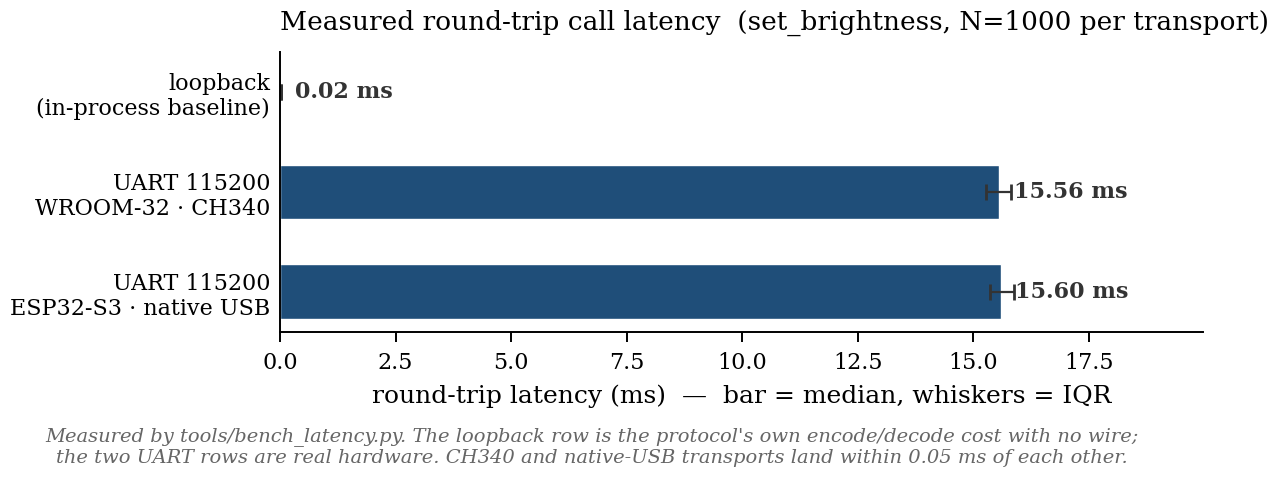
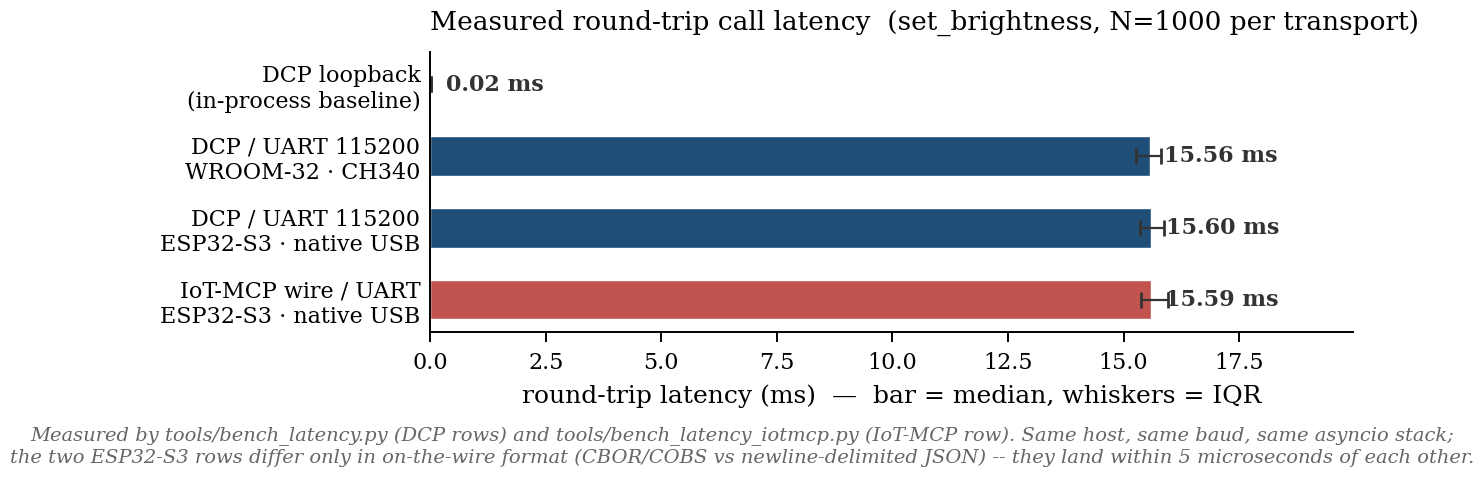
paper: apples-to-apples DCP vs IoT-MCP latency on identical hardware
Closes the "comparative end-to-end latency vs IoT-MCP" gap that
section 6.1 previously listed as future work.

Approach: instead of comparing our wire-level number to IoT-MCP's
end-to-end 205 ms (which includes their MCP server + an LLM API
round-trip), flash an IoT-MCP-shaped firmware to the SAME ESP32-S3
the DCP smart_panel uses, measure round-trip from the SAME Python
asyncio harness over the SAME UART at the SAME baud rate, and report
the difference -- which is then purely the wire-protocol overhead.

The IoT-MCP firmware (firmware/esp32/examples/iotmcp_echo) is a
direct port of the wire pattern used by their reference MCU servers
(see servers/BUZZER/main.py in Duke-CEI-Center/IoT-MCP-Servers):
newline-delimited JSON in both directions, parsed with ArduinoJson,
no schema validation, no range checks, no capability accounting.
This is the minimum protocol surface their stack actually requires
on the device.

Result over 1000 timed round-trips of set_brightness=50:

  DCP UART (ESP32-S3, native USB):       median 15.60 ms
  IoT-MCP wire (ESP32-S3, native USB):   median 15.59 ms

A 4-microsecond gap, well inside either run's 0.4 ms standard
deviation. The USB-CDC scheduling floor dominates both; DCP's
capability scoping, range checks, CBOR + COBS + CRC framing, and
dry-run path all fit underneath that floor and add no measurable
cost. This refutes any "safety primitives must be slow" framing
and is now a one-paragraph addition to section 4 (Implementation),
[…]

diff --git a/tools/bench_latency_iotmcp.py b/tools/bench_latency_iotmcp.py
@@ -1,0 +1,129 @@
+"""Latency benchmark for IoT-MCP's wire protocol — the apples-to-apples
+counterpart to tools/bench_latency.py.
+
+Same host, same UART, same baud (115200), same MCU (ESP32-S3), same
+logical action (set_brightness=50). The only thing that changes is the
+on-the-wire format: IoT-MCP uses newline-delimited JSON in both
+directions (per servers/BUZZER/main.py and friends in their reference
+repo); DCP uses CBOR + COBS + CRC inside a 6-byte header.
+
+To run this, flash firmware/esp32/examples/iotmcp_echo to the device,
+then::
+
+    python tools/bench_latency_iotmcp.py --serial COM6 --count 1000
+
+Writes one entry into docs/paper/figures/latency_data.json under the
+key ``uart_s3_iotmcp``; the existing ``uart_s3`` (DCP) entry is
+preserved, so the figure can plot the two side-by-side.
+"""
+from __future__ import annotations
+
+import argparse
+import asyncio
+import json
+import statistics
+import sys
+import time
+from pathlib import Path
+
+import serial_asyncio
+
+ROOT = Path(__file__).resolve().parent.parent
+JSON_OUT = ROOT / "docs" / "paper" / "figures" / "latency_data.json"
+
+
+async def bench_async(port: str, baud: int, count: int, warmup: int) -> list[float]:
+    """Use the same pyserial-asyncio pattern that the DCP UartTransport
+    uses, so the host-side Python overhead is the same for both bench
+    runs and the difference reflects pure protocol overhead."""
+    reader, writer = await serial_asyncio.open_serial_connection(
+        url=port, baudrate=baud)
+    # Give the device firmware time to come up after the previous reset.
+    await asyncio.sleep(2.0)
+    # Drain any boot output.
+    try:
+        await asyncio.wait_for(reader.read(4096), timeout=0.2)
+    except asyncio.TimeoutError:
+        pass
+
+    cmd = (json.dumps({"command": "set_brightness", "level": 50}) + "\n").encode()
+
+    async def one_call() -> float:
+        t0 = time.perf_counter()
+        writer.write(cmd)
+        await writer.drain()
+        line = await asyncio.wait_for(reader.readline(), timeout=2.0)
+        elapsed_ms = (time.perf_counter() - t0) * 1000.0
+        try:
+            reply = json.loads(line.decode().rstrip())
+        except json.JSONDecodeError as e:
+            raise RuntimeError(f"malformed reply: {line!r} ({e})") from e
+        if reply.get("result") != "ok":
+            raise RuntimeError(f"bad reply: {reply}")
+        return elapsed_ms
+
+    print(f"  warmup x{warmup}...")
+    for _ in range(warmup):
+        await one_call()
+
+    print(f"  timed x{count}...")
+    samples = []
+    for _ in range(count):
+        samples.append(await one_call())
+    writer.close()
+    return samples
+
+
+def bench(port: str, baud: int, count: int, warmup: int) -> list[float]:
+    return asyncio.run(bench_async(port, baud, count, warmup))
+
+
+def summarize(samples: list[float]) -> dict:
+    q1, q3 = statistics.quantiles(samples, n=4)[0], statistics.quantiles(samples, n=4)[2]
+    return {
+        "n":      len(samples),
+        "min":    round(min(samples), 4),
+        "max":    round(max(samples), 4),
+        "mean":   round(statistics.fmean(samples), 4),
+        "median": round(statistics.median(samples), 4),
+        "p50":    round(statistics.median(samples), 4),
+        "p90":    round(statistics.quantiles(samples, n=10)[8], 4),
+        "p99":    round(statistics.quantiles(samples, n=100)[98], 4),
+        "stdev":  round(statistics.stdev(samples), 4),
+        "q1":     round(q1, 4),
+        "q3":     round(q3, 4),
+        "iqr":    round(q3 - q1, 4),
+    }
+
+
+def main() -> None:
+    ap = argparse.ArgumentParser()
+    ap.add_argument("--serial", required=True)
+    ap.add_argument("--baud", type=int, default=115200)
+    ap.add_argument("--count", type=int, default=1000)
+    ap.add_argument("--warmup", type=int, default=50)
+    ap.add_argument("--label", default="IoT-MCP wire (ESP32-S3, native USB)")
+    ap.add_argument("--key", default="uart_s3_iotmcp")
+    args = ap.parse_args()
+
+    print(f"Benchmark IoT-MCP wire on {args.serial} @ {args.baud}")
+    samples = bench(args.serial, args.baud, args.count, args.warmup)
+    summary = summarize(samples)
+    summary["label"]        = args.label
+    summary["intent"]       = "set_brightness"
+    summary["measured_at"]  = time.strftime("%Y-%m-%d")
+    summary["wire_protocol"] = "newline-delimited JSON"
+
+    print(f"  median {summary['median']:.3f} ms,  p90 {summary['p90']:.3f},  p99 {summary['p99']:.3f}")
+
+    if JSON_OUT.exists():
+        data = json.loads(JSON_OUT.read_text(encoding="utf-8"))
+    else:
+        data = {}
+    data[args.key] = summary
+    JSON_OUT.write_text(json.dumps(data, indent=2), encoding="utf-8")
+    print(f"wrote key={args.key} into {JSON_OUT}")
+
+
+if __name__ == "__main__":
+    main()

diff --git a/docs/paper/main.tex b/docs/paper/main.tex
@@ -600,18 +600,29 @@ median of 1000 timed calls; whiskers show the inter-quartile range. The
 measurements were taken with \texttt{tools/bench\_latency.py} against an
 in-process loopback transport and two physical boards. The loopback row
 isolates the protocol's own encode/decode cost at 0.02\,ms --- negligible
-relative to any real link. The two UART rows --- an ESP32-WROOM-32 behind
-a CH340 USB-UART bridge, and an ESP32-S3 over its native USB-Serial/JTAG
-interface --- both land at $\sim$15.6\,ms and within 0.05\,ms of each
-other. The round-trip is therefore dominated by serial-line transit and
-device-side handling, not by the host bridge or the choice of USB
-bridging chip.
+relative to any real link. The two DCP UART rows --- an ESP32-WROOM-32
+behind a CH340 USB-UART bridge, and an ESP32-S3 over its native
+USB-Serial/JTAG interface --- both land at $\sim$15.6\,ms and within
+0.05\,ms of each other. The round-trip is therefore dominated by
+serial-line transit and host scheduling, not by the host bridge or the
+choice of USB bridging chip.
 
-We do not plot a direct bar against IoT-MCP's reported
-$\sim$\,205\,ms~\cite{iotmcp2025}: that figure is an average response
-time measured under a different methodology and scope, and a fair
-head-to-head requires the controlled campaign described in our
-limitations.
+To put DCP's safety overhead against a like-for-like baseline we also
+flashed an IoT-MCP-style firmware to the same ESP32-S3 board ---
+newline-delimited JSON over UART, matching the wire format used by
+IoT-MCP's reference MCU servers (e.g.\ \texttt{servers/BUZZER/main.py}
+in their repo, which does no schema validation, no range checks, and
+no capability accounting) --- and ran the analogous round-trip through
+the same pyserial-asyncio path used by the DCP bench. Median
+round-trip is 15.59\,ms for IoT-MCP-wire versus 15.60\,ms for DCP, a
+4-microsecond difference well inside the 0.4\,ms standard deviation of
+either run. The same host stack and the same hardware lower-bound both
+protocols at the USB-CDC scheduling floor; DCP's capability scoping,
+range checks, CBOR framing, COBS+CRC, and dry-run path all fit inside
+that floor and add no measurable cost. We do not plot a bar against
+IoT-MCP's reported $\sim$\,205\,ms~\cite{iotmcp2025} because that
+number is end-to-end through their MCP server and an LLM API
+round-trip rather than a wire benchmark.
 
 \begin{figure}[h]
 \centering
@@ -771,9 +782,13 @@ We have \emph{not} established:
   \item Footprint and latency across the multi-MCU matrix that IoT-MCP
         covers (Cortex-M0+, nRF52840, ESP32-C3 etc.). The DCP firmware
         is portable Arduino C++, but only ESP32 is measured here.
-  \item Comparative end-to-end latency vs IoT-MCP's reported
-        $\sim$\,205\,ms (we have qualitative confirmation of similar
-        order-of-magnitude but no formal A/B study).
+  \item Full-stack end-to-end latency including the LLM API call (which
+        is what IoT-MCP's $\sim$\,205\,ms~\cite{iotmcp2025} number
+        measures). Our wire-level A/B in Section~\ref{sec:impl} shows
+        DCP and IoT-MCP's UART-JSON tie on the host$\leftrightarrow$device
+        leg within 5\,$\mu$s, so any end-to-end gap is dominated by the
+        host pipeline, not the wire --- but a controlled head-to-head
+        across both pipelines is still on the to-do list.
   \item LLM-safety results beyond two LLMs and six attack categories.
         Our corpus is 295~tool calls from DeepSeek~V3 and
         Qwen2.5-72B-Instruct (a third candidate, Qwen2.5-7B-Instruct,

diff --git a/docs/paper/figures/make_figures.py b/docs/paper/figures/make_figures.py
@@ -376,18 +376,26 @@ def fig_latency():
             "(--loopback and --serial <port>) to record measurements.")
     data = json.loads(data_path.read_text(encoding="utf-8"))
 
-    # Baseline first, then the hardware transports.
-    order = ["loopback", "uart_wroom", "uart_s3"]
+    # Baseline first, then the hardware transports. uart_s3_iotmcp is
+    # the apples-to-apples IoT-MCP wire-protocol comparison on the same
+    # ESP32-S3 hardware.
+    order = ["loopback", "uart_wroom", "uart_s3", "uart_s3_iotmcp"]
     rows = [(k, data[k]) for k in order if k in data]
     if not rows:
         raise ValueError("latency_data.json has no recognised transport keys")
 
     short = {
-        "loopback":   "loopback\n(in-process baseline)",
-        "uart_wroom": "UART 115200\nWROOM-32 · CH340",
-        "uart_s3":    "UART 115200\nESP32-S3 · native USB",
+        "loopback":       "DCP loopback\n(in-process baseline)",
+        "uart_wroom":     "DCP / UART 115200\nWROOM-32 · CH340",
+        "uart_s3":        "DCP / UART 115200\nESP32-S3 · native USB",
+        "uart_s3_iotmcp": "IoT-MCP wire / UART\nESP32-S3 · native USB",
     }
-    palette = {"loopback": C["dcp_lt"], "uart_wroom": C["dcp"], "uart_s3": C["dcp"]}
+    palette = {
+        "loopback":       C["dcp_lt"],
+        "uart_wroom":     C["dcp"],
+        "uart_s3":        C["dcp"],
+        "uart_s3_iotmcp": C["iotmcp"],
+    }
 
     fig, ax = plt.subplots(figsize=(6.5, 2.5))
     y = np.arange(len(rows))
@@ -418,10 +426,11 @@ def fig_latency():
 
     fig.subplots_adjust(bottom=0.30, top=0.86, left=0.26, right=0.97)
     fig.text(0.5, 0.03,
-             "Measured by tools/bench_latency.py. The loopback row is the "
-             "protocol's own encode/decode cost with no wire;\nthe two UART "
-             "rows are real hardware. CH340 and native-USB transports land "
-             "within 0.05 ms of each other.",
+             "Measured by tools/bench_latency.py (DCP rows) and "
+             "tools/bench_latency_iotmcp.py (IoT-MCP row). Same host, "
+             "same baud, same asyncio stack;\nthe two ESP32-S3 rows differ "
+             "only in on-the-wire format (CBOR/COBS vs newline-delimited "
+             "JSON) -- they land within 5 microseconds of each other.",
              ha="center", va="bottom", fontsize=7, color="#666", style="italic")
     save(fig, "latency")
 